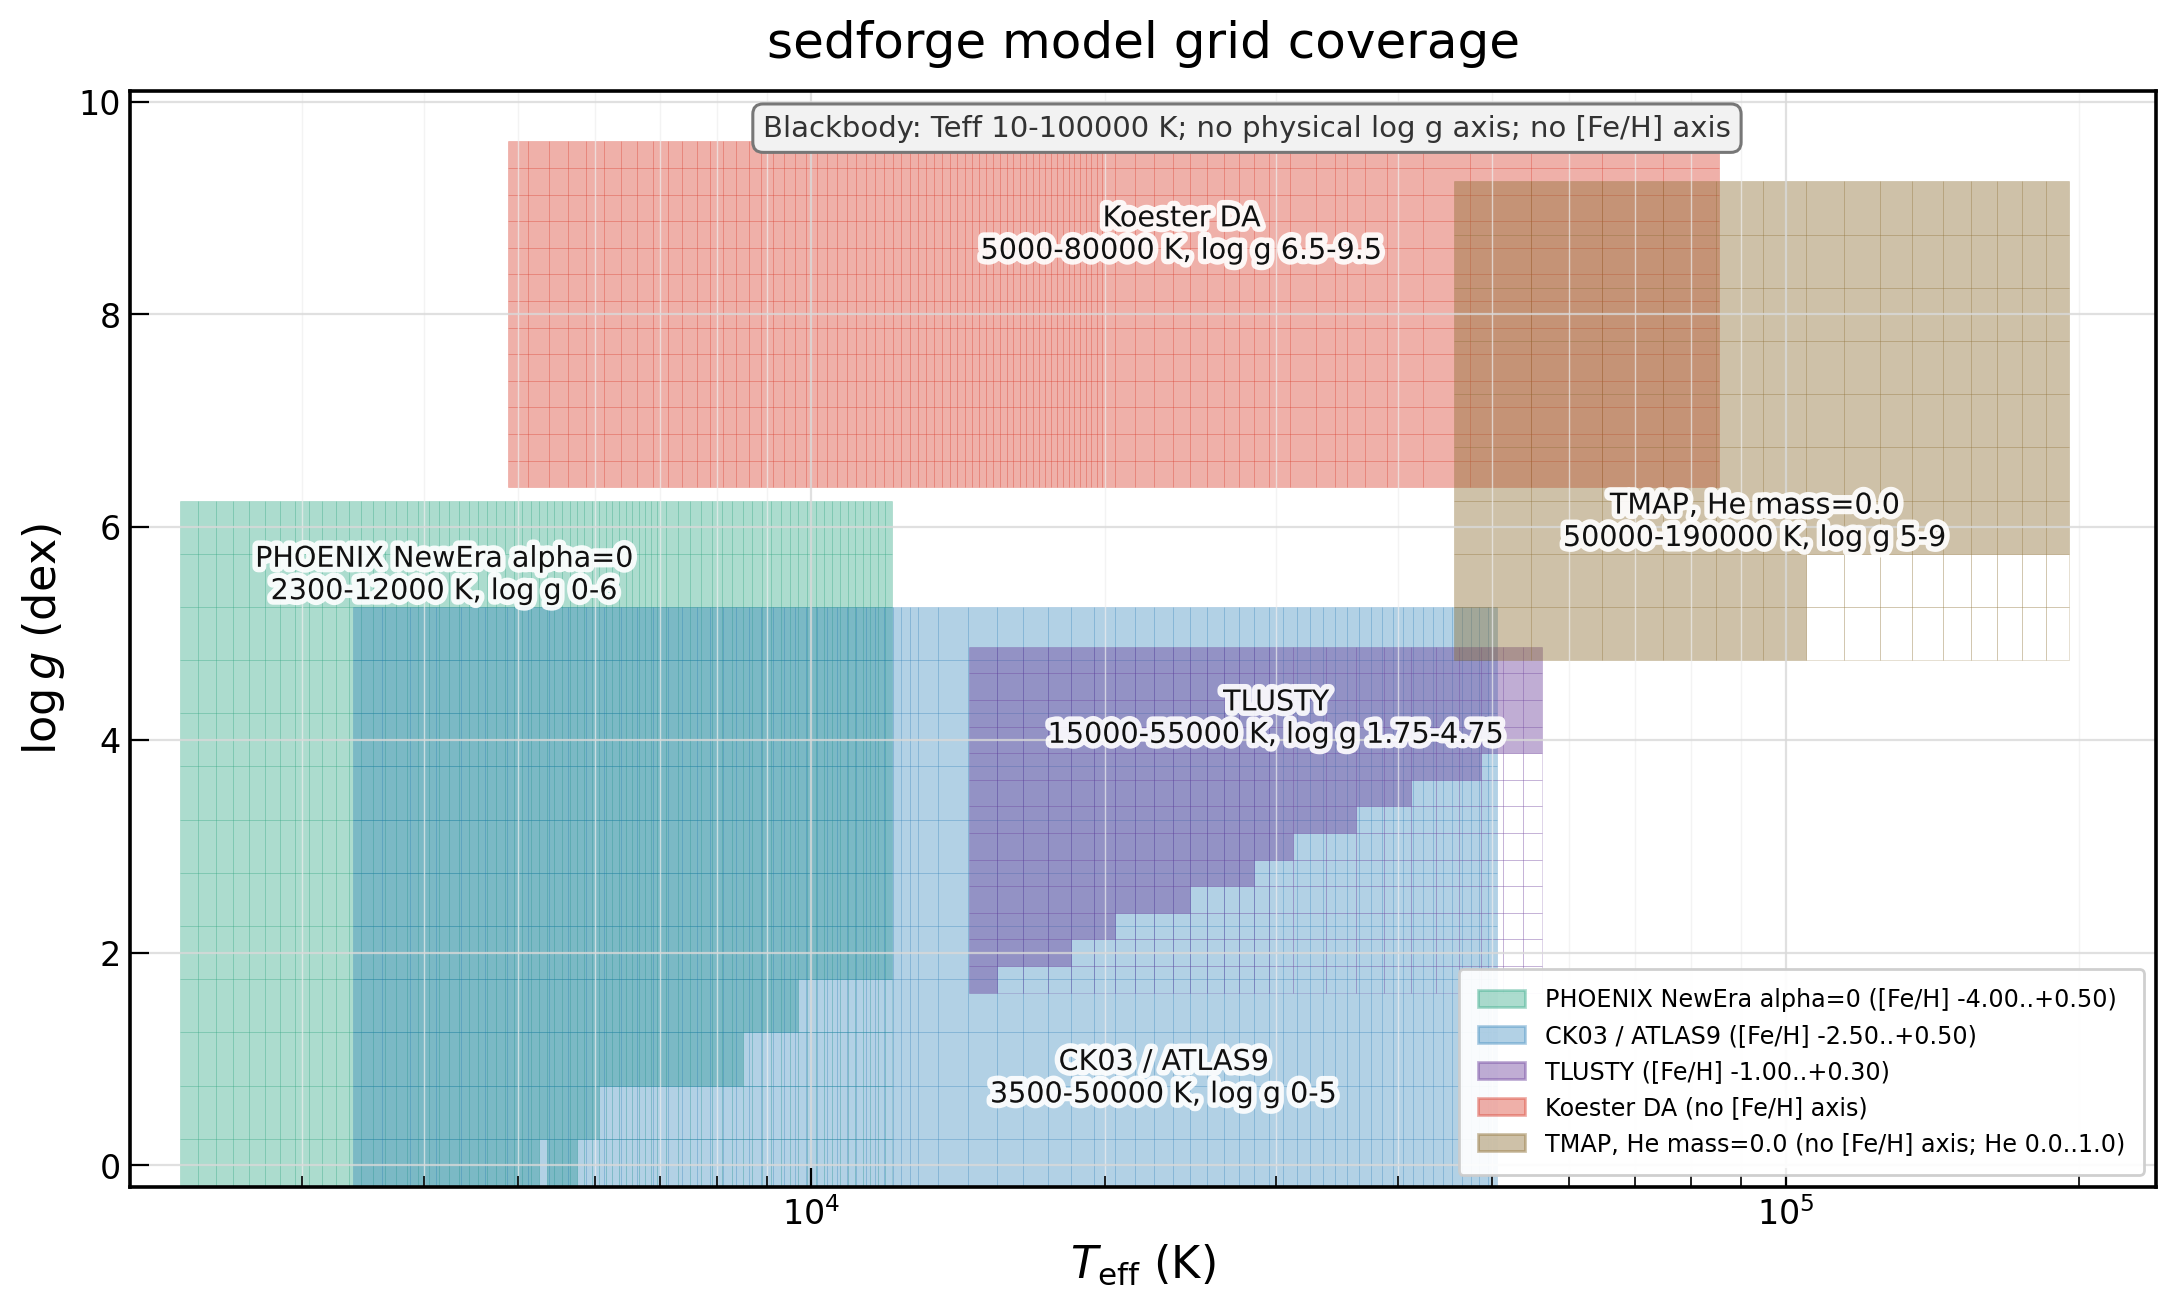
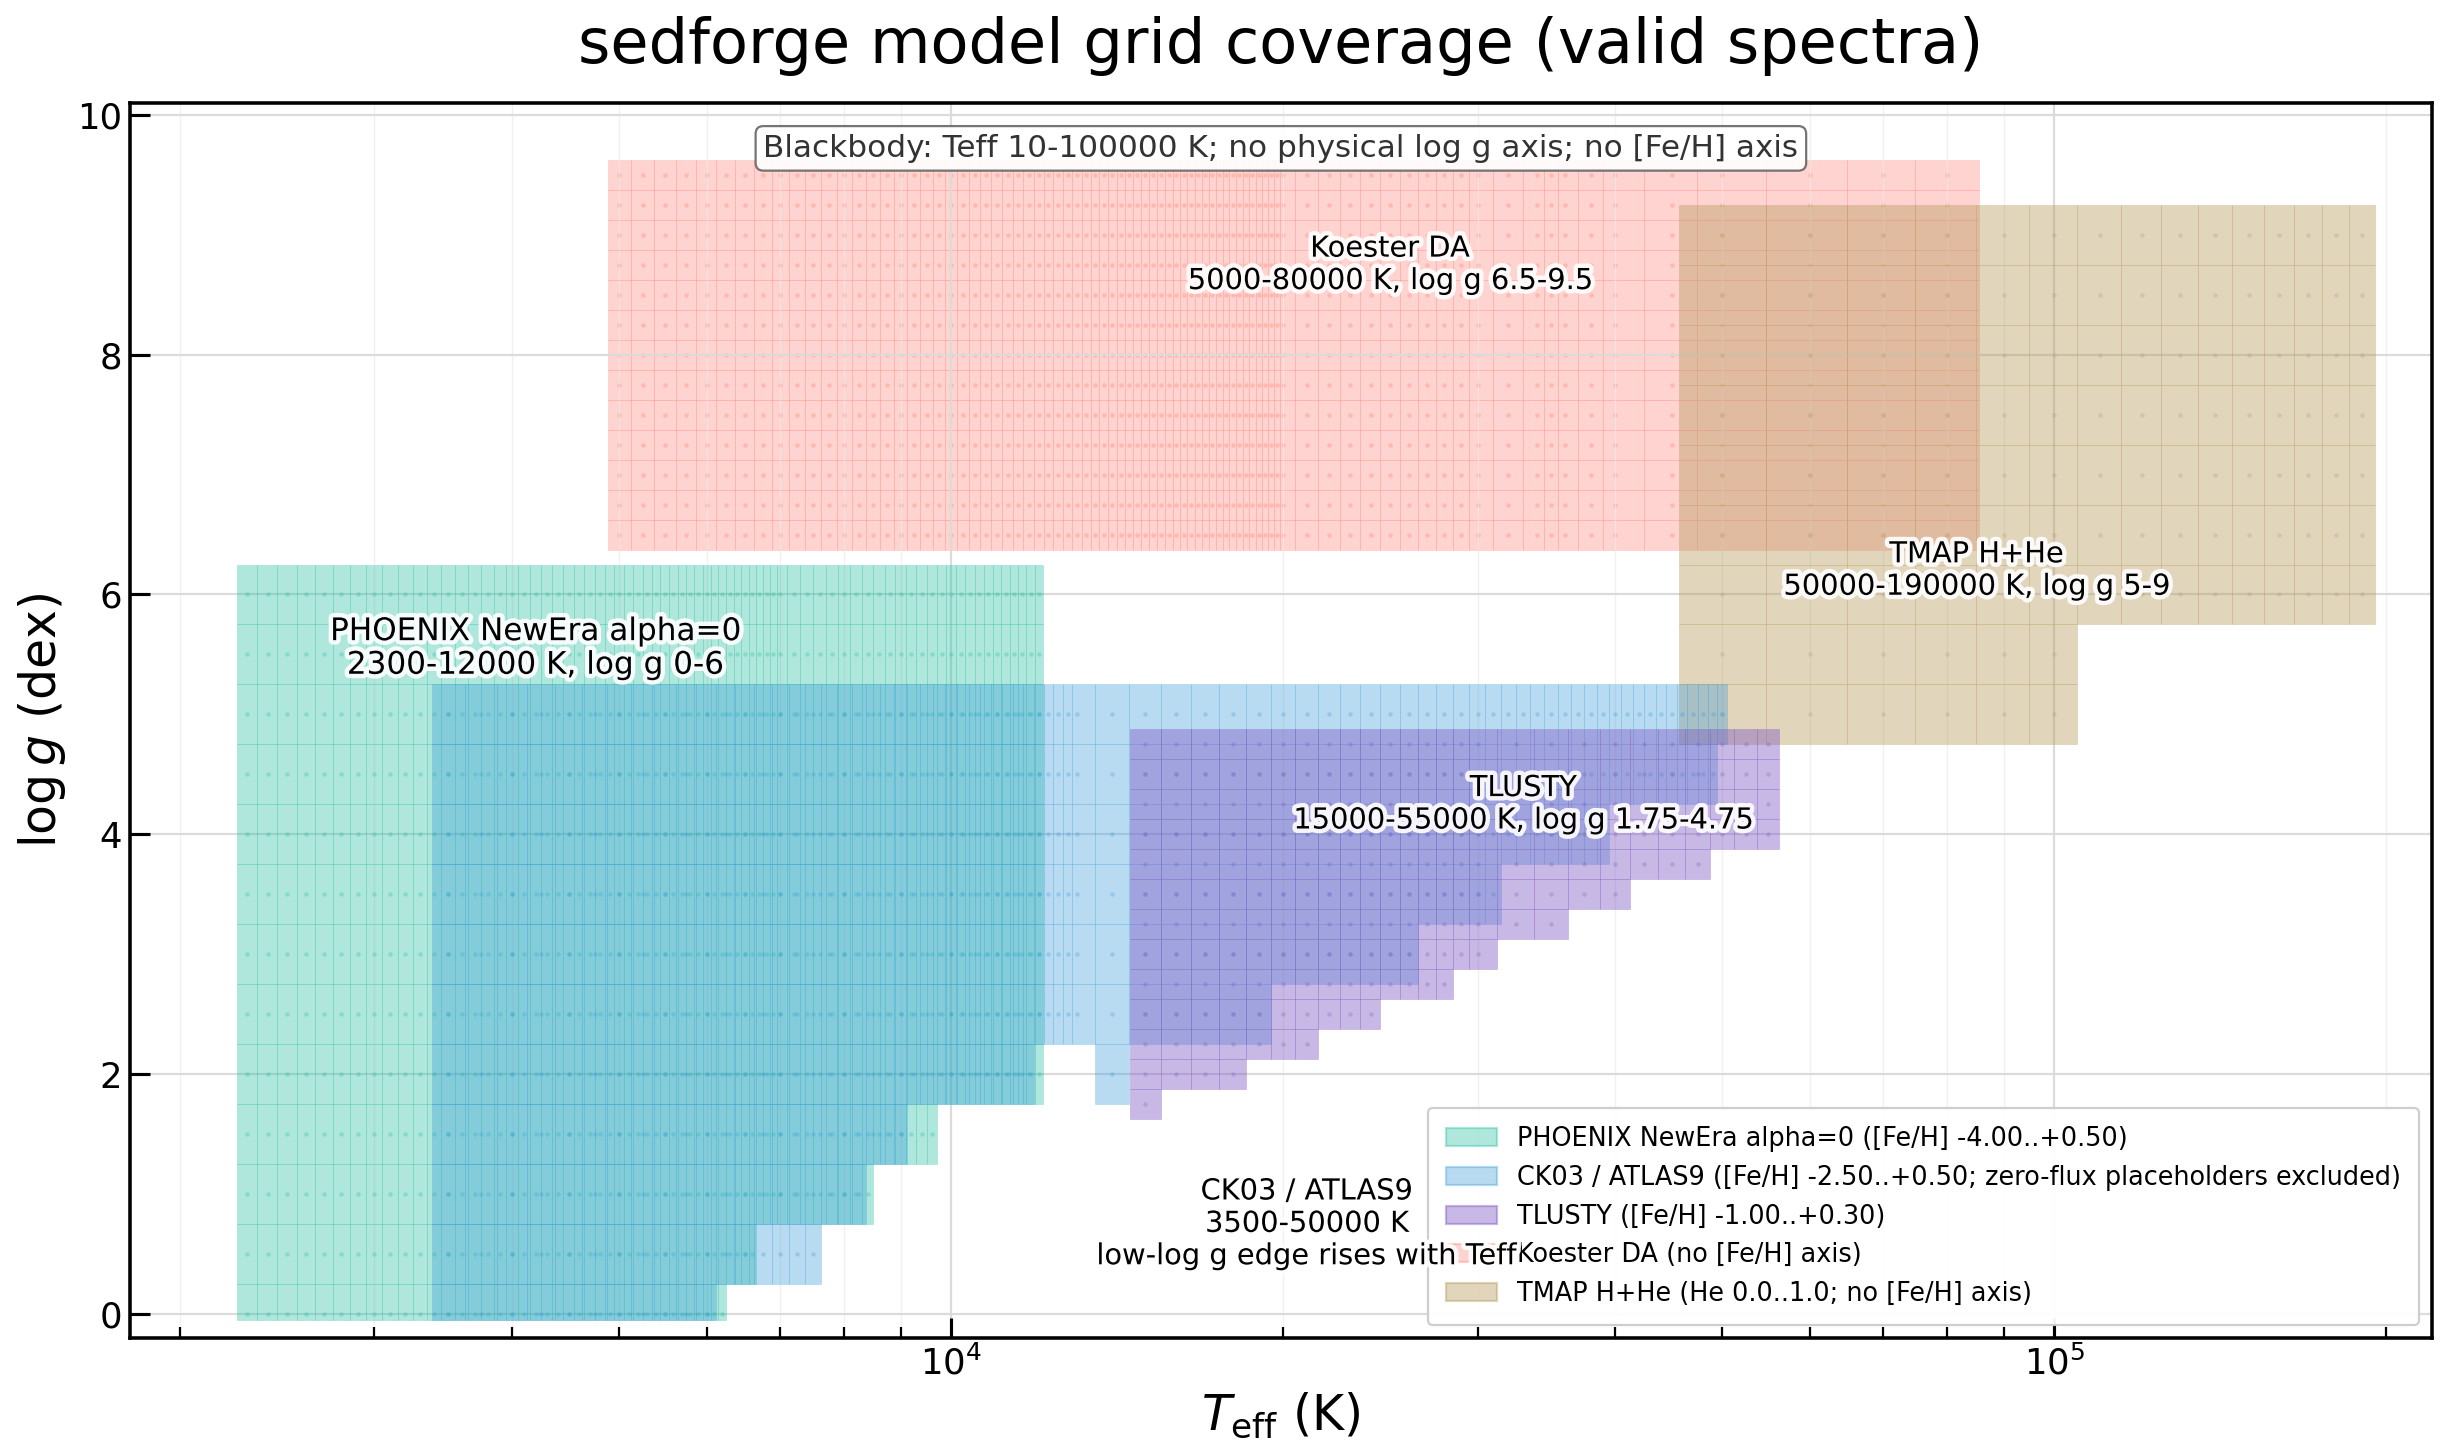
Correct model coverage figure

diff --git a/README.md b/README.md
@@ -299,8 +299,10 @@ be downloaded from a data release or generated locally.
   components.
 
 The current prepared model-grid coverage in effective temperature and surface
-gravity is summarized below. Exact axes, metallicity coverage, and file paths
-are defined by `grid_description.yaml` and the released grid files.
+gravity is summarized below. The plotted regions mark valid, nonzero spectra;
+zero-flux placeholder spectra in the source FITS files are excluded. Exact
+axes, metallicity coverage, and file paths are defined by
+`grid_description.yaml` and the released grid files.
 
 ![sedforge model grid coverage](docs/assets/model_teff_logg_shaded_grid.png)
 
